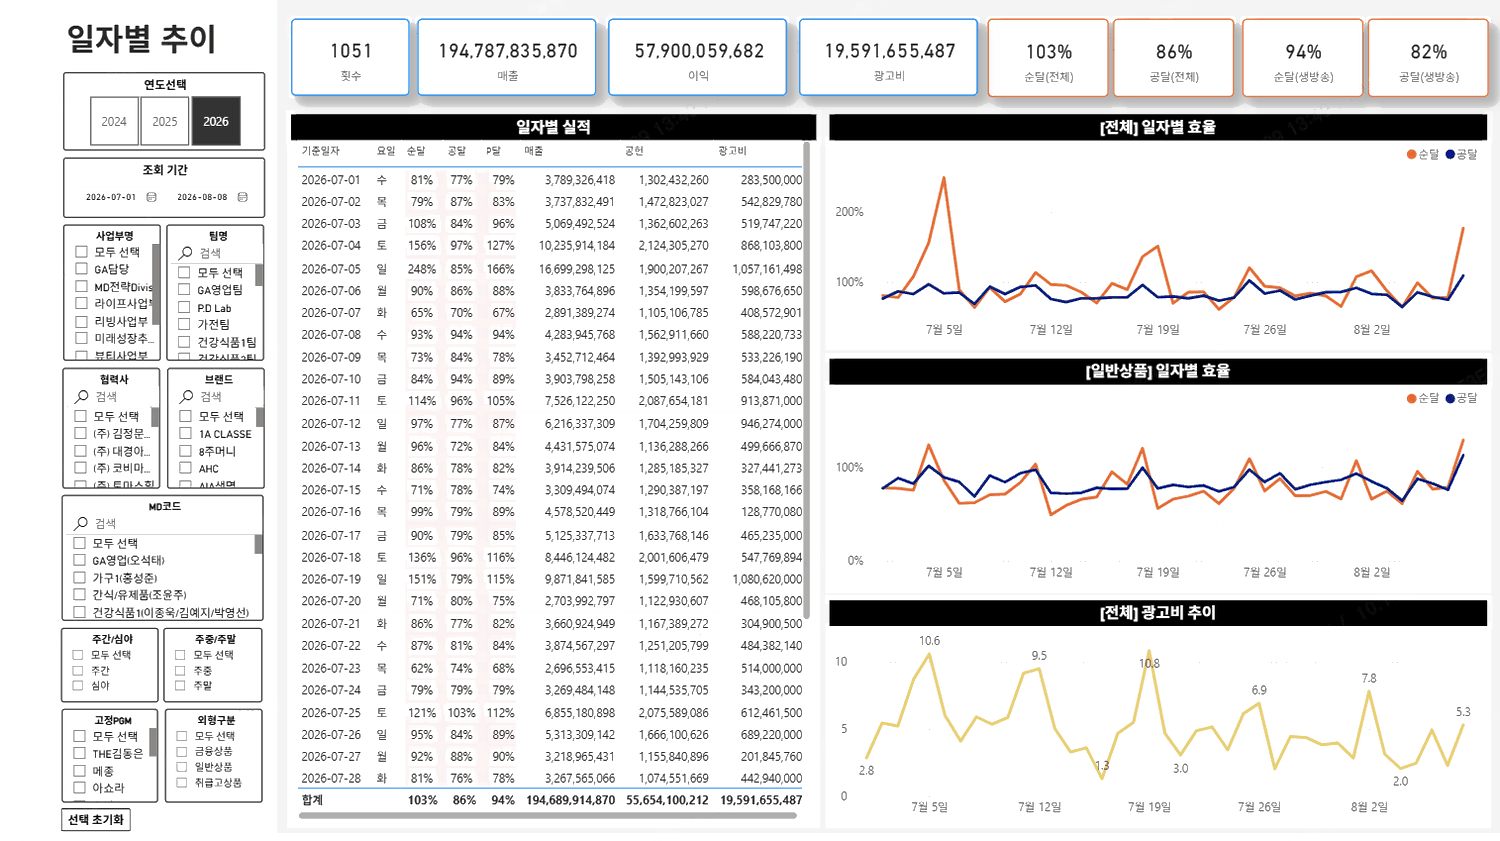
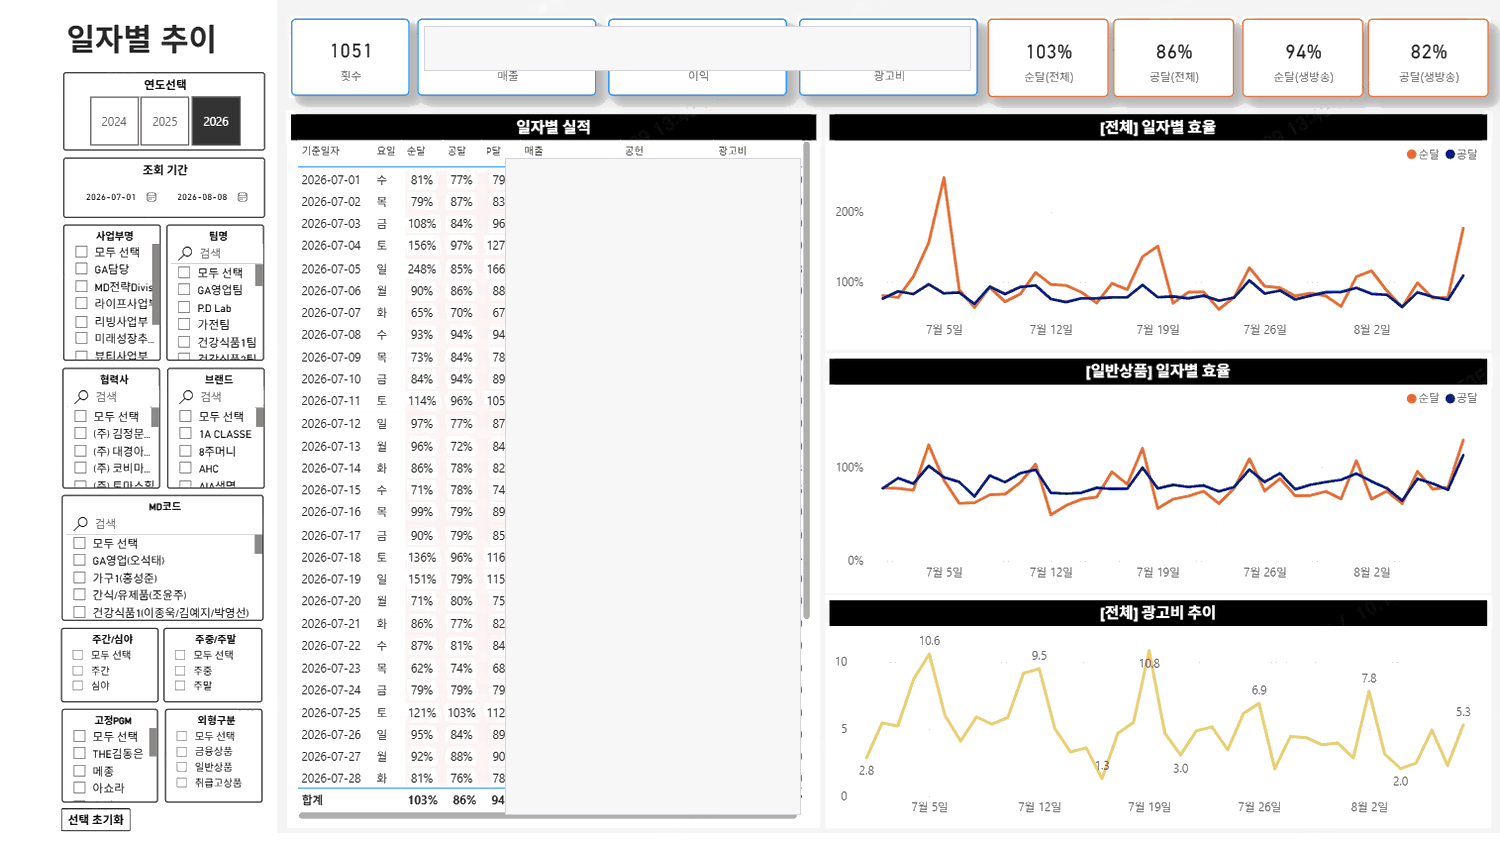
Add image viewer, collapsible items, and content updates
이미지 확대 보기
- 캡처 클릭 시 새 탭 대신 화면 위에 크게 띄우고, 닫기 버튼 · ESC · 바깥 클릭으로 닫힘
- 세로로 긴 캡처가 카드를 늘리지 않도록 카드 안 높이 제한 (원본은 확대해서 확인)

세부 항목 접기 · 펼치기
- 1-1, 2-1 같은 항목도 프로젝트처럼 접었다 펼 수 있도록 변경 (기본 펼침)
- 전체 펼치기 · 접기 버튼은 프로젝트만 대상으로 동작

카드 정리
- 고정 PGM 실적 조회 ①② → 한 카드에 이미지 2장
- 패션잡화 PGM 실적 조회 ①② → 한 카드에 이미지 1장
- 방송 실적 RAW 데이터 카드 및 이미지 삭제
- shots 의 src 가 배열이면 이미지 여러 장을 한 카드에 표시

대외비 마스킹
- 고정PGM : 매출 · 공헌 · 광고비 KPI 및 매출(억) · 매출(전체) 열
- 일자별 추이 : 매출 · 이익 · 광고비 KPI 및 표의 해당 열
- 팀사업부PGM : 달성률 KPI 및 표 · 사업부별 · 월별 운영현황의 달성률 열
  (같은 금액이 억 단위와 원 단위로 중복 노출되지 않도록 함께 처리)

내용 업데이트
- 1-1 : 역할 중심으로 재작성, ’26년 상반기 누적 수치와 연간 목표 대비로 변경
- 1-2 : ’26년 상반기 실적(매출 199.7억 · 공헌 57.8억)과
        ’26년 7월 개편 기준 카테고리별 편성비중 목표 반영
- 2-2 : 'Power BI 대시보드 구축 및 운영' 으로 제목 변경,
        ①PGM 실적 ②방송전환율 ③고정PGM 3개 대시보드 구조로 정리

Claude-Session: https://claude.ai/code/session_01HPYi3Ui74eGGtBjPM3J3tL

Changed region(s): [[0.3373, 0.1855, 0.552, 0.9893], [0.276, 0.0309, 0.644, 0.0927]]

diff --git a/assets/data.js b/assets/data.js
@@ -56,21 +56,27 @@ const PROJECTS = [
             note: "※ 저효율 기준 : 순주문 달성률 30% 미만, PGM 달성률(= 순주문 &amp; 공헌 평균) 50% 미만"
           },
           {
-            k: "실행",
+            k: "역할",
             lines: [
-              "편성 하한선 기준 수립 및 <b>3050 캠페인</b> 운영으로 저효율 방송 편성 최소화",
-              "월별 · 조직별 효율 관리 체계 직접 구축 · 운영",
-              "운영현황 집계 · 보고를 프로그램으로 자동화 (프로젝트 3 참고)"
+              "Live방송 <b>3050 캠페인 운영현황 데이터 관리</b>",
+              "식품사업부 편성 담당으로서 저효율 PGM 감축에 기여",
+              "운영현황 집계 · 보고를 프로그램으로 자동화 (프로젝트 3-4 참고)"
             ]
           },
           {
             k: "성과",
-            lines: ["식품사업부 전년 동월 대비 저효율 PGM 비중 축소하며 효율 개선 진행 중"]
+            lines: [
+              "<b>전체</b> — 순30% 미만 205개(7%) · P50% 미만 397개(13%)",
+              "<b>식품사업부</b> — 순30% 미만 63개(7%) · P50% 미만 112개(14%)"
+            ],
+            note: "※ ’26년 상반기 누적 기준"
           }
         ],
         metrics: [
-          { label: "순주문 30% 미만 프로그램 비중", from: "10.4%", to: "7%", note: "’25년 → ’26.1Q", dir: "down" },
-          { label: "PGM 50% 미만 프로그램 비중", from: "17.7%", to: "13%", note: "’25년 → ’26.1Q", dir: "down" }
+          { label: "전체 · 순30% 미만 PGM", to: "7%", note: "205개 · ’26년 목표 5% 미만", dir: "down" },
+          { label: "전체 · P50% 미만 PGM", to: "13%", note: "397개 · ’26년 목표 10% 미만", dir: "down" },
+          { label: "식품사업부 · 순30% 미만 PGM", to: "7%", note: "63개 · ’26년 목표 8% 미만", dir: "down" },
+          { label: "식품사업부 · P50% 미만 PGM", to: "14%", note: "112개 · ’26년 목표 13% 미만", dir: "down" }
         ]
       },
       {
@@ -88,23 +94,27 @@ const PROJECTS = [
           {
             k: "실행",
             lines: [
-              "패션 · 잡화 · 리빙 등 비식품 카테고리 편성 비중 전략적 확대",
-              "<b>식품 비중 40% 상한</b> 설정으로 의존도 관리 및 단독 브랜드 발굴 주도"
+              "<b>일반식품 편성 비중을 40% 미만으로 관리</b>하며 기타 카테고리를 전략적으로 믹스",
+              "’26년 7월 &lt;오감쇼&gt; 운영방식 개편에 맞춰 <b>카테고리별 편성비중 목표를 새로 수립</b>"
             ]
           },
           {
             k: "성과",
             lines: [
-              "’26.1Q 달성률 전년 대비 큰 폭 개선 (<b>순주문 +24%p, 공헌 +23%p</b>, 매출 약 100억 달성)",
-              "식품 비중 유지, 가전 · 뷰티 축소, 패션 · 리빙 확대 기조로 포트폴리오 개편 진행 중"
+              "’26년 상반기(1/1~7/14) <b>매출 199.7억 · 공헌 57.8억</b>",
+              "매출 신장 및 달성률 개선 (’25년 원목표 대비 30% 감액 진행)"
             ]
           }
         ],
         metrics: [
-          { label: "패션 카테고리 편성 비중", from: "10%", to: "24%", note: "카테고리 다변화", dir: "up" },
-          { label: "리빙 카테고리 편성 비중", from: "5%", to: "11%", note: "카테고리 다변화", dir: "up" },
-          { label: "’26.1Q 순주문 달성률", to: "+24%p", note: "전년 대비", dir: "up" },
-          { label: "’26.1Q 공헌 달성률", to: "+23%p", note: "전년 대비", dir: "up" }
+          { label: "매출", to: "199.7억", note: "’26.1.1 ~ 7.14", dir: "up" },
+          { label: "공헌", to: "57.8억", note: "’26.1.1 ~ 7.14", dir: "up" },
+          { label: "식품 편성비중 목표", from: "40%", to: "43%", note: "일반식품 40% + 건강식품 3%", dir: "up" },
+          { label: "리빙 · 주방 편성비중 목표", from: "15%", to: "16%", dir: "up" },
+          { label: "가전 편성비중 목표", from: "13%", to: "13%", note: "유지" },
+          { label: "잡화 편성비중 목표", from: "11%", to: "10%", dir: "down" },
+          { label: "뷰티 편성비중 목표", from: "5%", to: "10%", dir: "up" },
+          { label: "패션 편성비중 목표", from: "13%", to: "5%", note: "레포츠 · 언더웨어 중심", dir: "down" }
         ]
       }
     ]
@@ -177,7 +187,7 @@ const PROJECTS = [
       },
       {
         no: "2-2",
-        title: "KPI 대시보드 설계 및 전사 배포",
+        title: "Power BI 대시보드 구축 및 운영",
         period: "’25.01 ~ 현재",
         blocks: [
           {
@@ -191,8 +201,9 @@ const PROJECTS = [
             k: "실행",
             tech: ["Power BI", "MySQL", "Snowflake"],
             lines: [
-              "정제된 데이터를 <b>KPI별 대시보드로 시각화</b>해 빠른 의사결정 지원",
-              "실적 · 구매전환율 · 고정PGM · 카테고리PGM 등 목적별로 화면을 나누어 설계",
+              "<b>① TV라이브방송 PGM 실적 조회</b> (기존) — 협력사 + 브랜드별 / 카테고리별 / 신상품 / 월별 · 일자별 실적추이 조회",
+              "<b>② 방송전환율 조회</b> (기존) — 라이브 · 데이터방송 방송코드별 예상 / 실제 전환율, 팀별 + 브랜드별 전환율 조회",
+              "<b>③ TV라이브방송 고정PGM 실적 조회</b> (신규) — 오감쇼 · 황정민쇼 · THE김동은 · 메종 · 왕톡 등 당사 고정PGM 운영 현황 조회",
               "데이터방송 편성팀 · 영업팀 등 유관 부서에 배포하고 조회 기준을 안내"
             ]
           },
@@ -227,14 +238,6 @@ const PROJECTS = [
             ]
           },
           {
-            src: "images/p2-1-dashboard-raw.png",
-            title: "방송 실적 RAW 데이터",
-            desc: [
-              "일자별 방송 프로그램 단위로 방송실적을 분류한 상세 데이터",
-              "시간대 · 요일 · 시작/종료시각 · 목표 · 실적 · 상품분류 등 70여 개 지표 포함"
-            ]
-          },
-          {
             src: "images/p2-1-team-pgm.png",
             title: "팀 · 사업부 PGM 효율 조회",
             desc: [
@@ -252,36 +255,20 @@ const PROJECTS = [
             ]
           },
           {
-            src: "images/p2-1-fixedpgm-1.png",
-            title: "고정 PGM 실적 조회 ①",
+            src: ["images/p2-1-fixedpgm-1.png", "images/p2-1-fixedpgm-2.png"],
+            title: "고정 PGM 실적 조회",
             desc: [
-              "고정 프로그램별 매출 · 이익 · 광고비와 달성률을 프로그램 탭으로 전환하며 조회",
-              "PGM 실적 상세, 월별 실적, TOP 10 브랜드를 함께 제공",
-              "달성률 추이 그래프로 프로그램 운영 흐름 파악"
-            ]
-          },
-          {
-            src: "images/p2-1-fixedpgm-2.png",
-            title: "고정 PGM 실적 조회 ②",
-            desc: [
-              "카테고리 구성비를 파이차트로 시각화해 포트폴리오 편중 확인",
-              "팀별 방송 수 · 전환율 · 매출액을 표로 비교"
+              "오감쇼 · 황정민쇼 · THE김동은 · 메종 · 왕톡 등 고정 프로그램을 탭으로 전환하며 조회",
+              "PGM 실적 상세, 월별 실적, TOP 브랜드와 달성률 추이를 함께 제공",
+              "카테고리 구성비를 파이차트로 시각화하고 팀별 방송 수 · 전환율을 비교"
             ]
           },
           {
             src: "images/p2-1-fashion-1.png",
-            title: "패션잡화 PGM 실적 조회 ①",
+            title: "패션잡화 PGM 실적 조회",
             desc: [
               "기준일자 · PGM · 상품군 · 시간대 · 소분류 등 다중 필터로 조건 조합 조회",
               "방송코드 단위 생방송 실적을 상세 표로 확인"
-            ]
-          },
-          {
-            src: "images/p2-1-fashion-2.png",
-            title: "패션잡화 PGM 실적 조회 ②",
-            desc: [
-              "연도별 달성률과 소진 추이를 그래프로 비교",
-              "코드별 판매 내역을 함께 제공해 상품 단위까지 추적"
             ]
           },
           {

diff --git a/assets/app.js b/assets/app.js
@@ -48,55 +48,56 @@ function renderMetric(m) {
 
 function renderShot(s) {
   const desc = (s.desc || []).map(d => `<li>${d}</li>`).join("");
+  // src 는 문자열 하나 또는 배열(이미지 여러 장) 모두 가능합니다.
+  const list = !s.src ? [] : (Array.isArray(s.src) ? s.src : [s.src]);
+  const txt = `<div class="shot-txt">
+        <h4>${s.title || ""}</h4>
+        <ul>${desc}</ul>
+      </div>`;
+
   // 이미지가 아직 없으면 이미지 칸을 통째로 없애고 설명만 남깁니다.
   //   → 공개된 사이트에 '이미지 자리' 안내가 노출되지 않도록 하기 위함
   //   → 나중에 파일만 넣으면 이미지가 자동으로 다시 나타납니다
-  // 표·대시보드 캡처는 카드 안에서 작게 보이므로 클릭하면 원본 크기로 열립니다.
-  if (!s.src) return renderShotTextOnly(s, desc);
+  if (!list.length) return `<div class="shot no-img">${txt}</div>`;
+
+  // 표·대시보드 캡처는 카드 안에서 작게 보이므로, 클릭하면 확대해서 봅니다.
+  const imgs = list.map(src => `
+      <button type="button" class="shot-img zoom" data-full="${src}" title="클릭하면 크게 보기">
+        <img src="${src}" alt="${s.title || ""}" loading="lazy"
+             onerror="this.closest('.shot-img').remove()">
+      </button>`).join("");
   return `<div class="shot">
-      <a class="shot-img zoom" href="${s.src}" target="_blank" rel="noopener"
-         title="클릭하면 원본 크기로 열립니다">
-        <img src="${s.src}" alt="${s.title || ""}" loading="lazy"
-             onerror="this.closest('.shot').classList.add('no-img'); this.closest('.shot-img').remove()">
-      </a>
-      <div class="shot-txt">
-        <h4>${s.title || ""}</h4>
-        <ul>${desc}</ul>
-      </div>
+      <div class="shot-imgs">${imgs}</div>
+      ${txt}
     </div>`;
 }
 
-function renderShotTextOnly(s, desc) {
-  return `<div class="shot no-img">
-      <div class="shot-txt">
-        <h4>${s.title || ""}</h4>
-        <ul>${desc}</ul>
-      </div>
-    </div>`;
-}
-
-function renderItem(it) {
+function renderItem(it, idx, projectNo) {
   const blocks = (it.blocks || []).map(renderBlock).join("");
   const metrics = it.metrics && it.metrics.length
     ? `<div class="metrics">${it.metrics.map(renderMetric).join("")}</div>` : "";
   const diagram = it.diagram && DIAGRAMS[it.diagram] ? DIAGRAMS[it.diagram] : "";
   const shots = it.shots && it.shots.length
     ? `<div class="mini-label">예시 이미지</div><div class="shots">${it.shots.map(renderShot).join("")}</div>` : "";
-  return `<div class="item">
-      <div class="item-head">
+  // 항목도 프로젝트와 같은 방식으로 접었다 펼 수 있습니다 (기본은 펼침).
+  return `<details class="item" open id="item-${projectNo}-${idx + 1}">
+      <summary class="item-head">
         ${it.no ? `<span class="item-no">${it.no}</span>` : ""}
         <span class="item-title">${it.title}</span>
         ${it.period ? `<span class="item-period">${it.period}</span>` : ""}
+        <span class="chev"></span>
+      </summary>
+      <div class="item-body">
+        <div class="blocks">${blocks}</div>
+        ${metrics}${diagram}${shots}
       </div>
-      <div class="blocks">${blocks}</div>
-      ${metrics}${diagram}${shots}
-    </div>`;
+    </details>`;
 }
 
 function renderProject(p, i) {
   const no = String(i + 1).padStart(2, "0");
   const meta = [p.period, p.summary].filter(Boolean).map(t => `<span>${t}</span>`).join("");
-  const items = (p.items || []).map(renderItem).join("");
+  const items = (p.items || []).map((it, k) => renderItem(it, k, i + 1)).join("");
   // 실제로 열어볼 수 있는 결과물이 있으면 본문 맨 위에 바로가기 버튼을 놓습니다.
   const link = p.link
     ? `<a class="p-link" href="${p.link.href}" target="_blank" rel="noopener">
@@ -120,11 +121,12 @@ function renderProject(p, i) {
 const list = document.getElementById("projectList");
 list.innerHTML = PROJECTS.map(renderProject).join("");
 
+// 전체 펼치기·접기는 프로젝트만 대상으로 합니다 (항목은 그대로 유지).
 document.getElementById("expandAll").addEventListener("click", () => {
-  list.querySelectorAll("details").forEach(d => d.open = true);
+  list.querySelectorAll("details.proj").forEach(d => d.open = true);
 });
 document.getElementById("collapseAll").addEventListener("click", () => {
-  list.querySelectorAll("details").forEach(d => d.open = false);
+  list.querySelectorAll("details.proj").forEach(d => d.open = false);
 });
 
 // 주소창에 #project-2 같은 해시가 있으면 해당 프로젝트를 펼쳐 줍니다.
@@ -132,3 +134,54 @@ if (location.hash) {
   const t = document.querySelector(location.hash);
   if (t && t.tagName === "DETAILS") { t.open = true; t.scrollIntoView(); }
 }
+
+/* ---------- 이미지 확대 보기 ----------
+   캡처를 클릭하면 화면 전체에 크게 띄우고, 아래 방법으로 닫습니다.
+     · 우측 상단 '닫기' 버튼
+     · ESC 키
+     · 이미지 바깥 어두운 영역 클릭
+------------------------------------------ */
+const viewer = document.createElement("div");
+viewer.className = "viewer";
+viewer.setAttribute("aria-hidden", "true");
+viewer.innerHTML = `
+  <button type="button" class="viewer-close" aria-label="닫기">닫기 ✕</button>
+  <img alt="">
+  <div class="viewer-hint">이미지 바깥을 클릭하거나 ESC 키를 눌러도 닫힙니다</div>`;
+document.body.appendChild(viewer);
+
+const viewerImg = viewer.querySelector("img");
+let lastFocused = null;
+
+function openViewer(src, alt) {
+  lastFocused = document.activeElement;
+  viewerImg.src = src;
+  viewerImg.alt = alt || "";
+  viewer.classList.add("on");
+  viewer.setAttribute("aria-hidden", "false");
+  document.body.style.overflow = "hidden";      // 뒤 배경 스크롤 방지
+  viewer.querySelector(".viewer-close").focus();
+}
+
+function closeViewer() {
+  viewer.classList.remove("on");
+  viewer.setAttribute("aria-hidden", "true");
+  document.body.style.overflow = "";
+  viewerImg.removeAttribute("src");
+  if (lastFocused) lastFocused.focus();
+}
+
+list.addEventListener("click", e => {
+  const btn = e.target.closest(".shot-img");
+  if (!btn) return;
+  const img = btn.querySelector("img");
+  openViewer(btn.dataset.full, img && img.alt);
+});
+
+viewer.addEventListener("click", e => {
+  // 이미지 자체를 클릭한 게 아니면 닫습니다 (배경·닫기 버튼 모두 해당)
+  if (e.target !== viewerImg) closeViewer();
+});
+document.addEventListener("keydown", e => {
+  if (e.key === "Escape" && viewer.classList.contains("on")) closeViewer();
+});

diff --git a/assets/style.css b/assets/style.css
@@ -215,9 +215,15 @@ section { padding: 52px 0 4px; }
 .p-link span { font-size: 12px; }
 .p-link + .item { padding-top: 20px; }
 
-/* 세부 항목 (1-1, 1-2 ...) */
-.item { padding-top: 24px; }
+/* 세부 항목 (1-1, 1-2 ...) — 프로젝트처럼 접었다 펼 수 있습니다 */
+.item { padding-top: 8px; }
 .item + .item { border-top: 1px dashed var(--grid); margin-top: 8px; }
+.item > summary { list-style: none; cursor: pointer; padding: 14px 0 12px; border-radius: 10px; }
+.item > summary::-webkit-details-marker { display: none; }
+.item > summary:hover .item-title { color: var(--accent); }
+.item > summary .chev { margin-left: 10px; align-self: center; }
+.item[open] > summary .chev { transform: rotate(225deg) translate(-1px,-1px); }
+.item-body { padding-bottom: 8px; }
 .item-head { display: flex; flex-wrap: wrap; align-items: baseline; gap: 6px 12px; }
 .item-no {
   font-size: 12px; font-weight: 800; color: var(--accent);
@@ -276,10 +282,45 @@ section { padding: 52px 0 4px; }
   background: var(--page); border: 1px solid var(--border); border-radius: 12px; overflow: hidden;
   min-height: 190px; display: grid; place-items: center;
 }
-.shot-img.zoom { cursor: zoom-in; }
-.shot-img img { width: 100%; height: 100%; object-fit: contain; }
+.shot-imgs { display: flex; flex-direction: column; gap: 10px; }
+.shot-img.zoom {
+  cursor: zoom-in; font: inherit; padding: 0; width: 100%;
+  border: 1px solid var(--border); background: var(--page);
+}
+.shot-img.zoom:hover { border-color: color-mix(in srgb, var(--accent) 45%, transparent); }
+/* 세로로 긴 캡처가 카드를 과도하게 늘리지 않도록 높이를 제한합니다 (클릭하면 원본 크기) */
+.shot-img { max-height: 380px; }
+.shot-img img { width: 100%; height: 100%; max-height: 380px; object-fit: contain; }
 /* 이미지가 없거나 불러오지 못한 카드는 설명이 한 줄로 넓게 펼쳐집니다 */
 .shot.no-img { grid-template-columns: 1fr; }
+
+/* ---------- 이미지 확대 보기 ---------- */
+.viewer {
+  position: fixed; inset: 0; z-index: 100; display: none;
+  align-items: center; justify-content: center; padding: 64px 24px 40px;
+  background: rgba(8, 8, 8, 0.82); backdrop-filter: blur(3px);
+}
+.viewer.on { display: flex; }
+.viewer img {
+  max-width: 100%; max-height: 100%; object-fit: contain;
+  background: #fff; border-radius: 10px; box-shadow: 0 20px 60px rgba(0,0,0,.5);
+  cursor: default;
+}
+.viewer-close {
+  position: absolute; top: 18px; right: 20px;
+  font: inherit; font-size: 13.5px; font-weight: 750; color: #fff; cursor: pointer;
+  background: rgba(255,255,255,.14); border: 1px solid rgba(255,255,255,.3);
+  border-radius: 999px; padding: 8px 18px;
+}
+.viewer-close:hover { background: rgba(255,255,255,.26); }
+.viewer-hint {
+  position: absolute; bottom: 14px; left: 0; right: 0; text-align: center;
+  font-size: 12px; color: rgba(255,255,255,.62);
+}
+@media (max-width: 640px) {
+  .viewer { padding: 58px 12px 36px; }
+  .viewer-hint { display: none; }
+}
 .shot-txt { display: flex; flex-direction: column; gap: 10px; }
 .shot-txt h4 {
   font-size: 13.5px; font-weight: 750; color: #fff; background: var(--accent);

diff --git a/images/README.md b/images/README.md
@@ -23,11 +23,10 @@
 | `p2-1-sql.png` | 실적 집계 쿼리 |
 | `p2-1-dashboard-live.png` | Power BI · 기간별 사업부/팀 실적 조회 |
 | `p2-1-dashboard-brand.png` | Power BI · 협력사/브랜드별 실적 조회 |
-| `p2-1-dashboard-raw.png` | Power BI · 방송 실적 RAW 데이터 |
 | `p2-1-team-pgm.png` | 팀 · 사업부 PGM 효율 조회 |
 | `p2-1-daily-trend.png` | 일자별 추이 조회 |
-| `p2-1-fixedpgm-1.png` `p2-1-fixedpgm-2.png` | 고정 PGM 실적 조회 ① ② |
-| `p2-1-fashion-1.png` `p2-1-fashion-2.png` | 패션잡화 PGM 실적 조회 ① ② |
+| `p2-1-fixedpgm-1.png` `p2-1-fixedpgm-2.png` | 고정 PGM 실적 조회 (한 카드에 2장) |
+| `p2-1-fashion-1.png` | 패션잡화 PGM 실적 조회 |
 | `p2-1-conversion.png` | 방송코드별 실제 구매전환율 조회 |
 | `p2-1-conversion-raw.png` | 구매전환율 RAW 데이터 |
 
